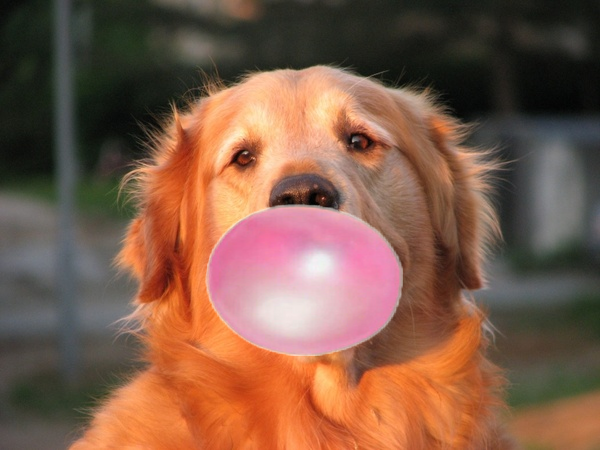
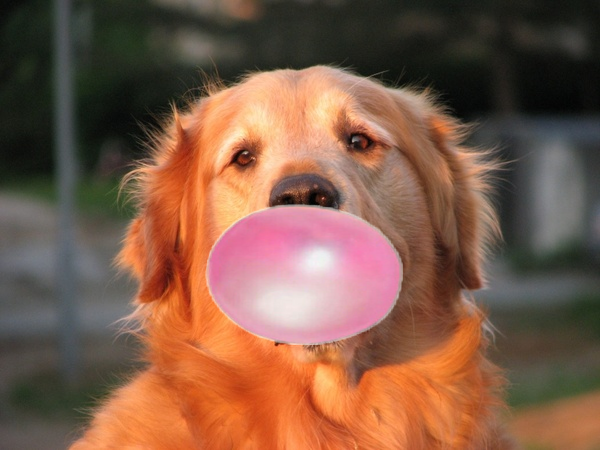
update

diff --git a/main.py b/main.py
@@ -32,7 +32,7 @@ bubble = Image.open('bubble.png')
 dog = dog.convert('RGBA')
 
 for (x, y, w, h) in dog_face:
-    bubble = bubble.resize((w, int(h / 1.3)))
+    bubble = bubble.resize((w, int(h / 1.4)))
     dog.paste(bubble, (x, int(y + h / 1.5)), bubble)
     dog.save('dog_with_bubble.png')
     dog_with_glasses = cv2.imread('dog_with_bubble.png')
